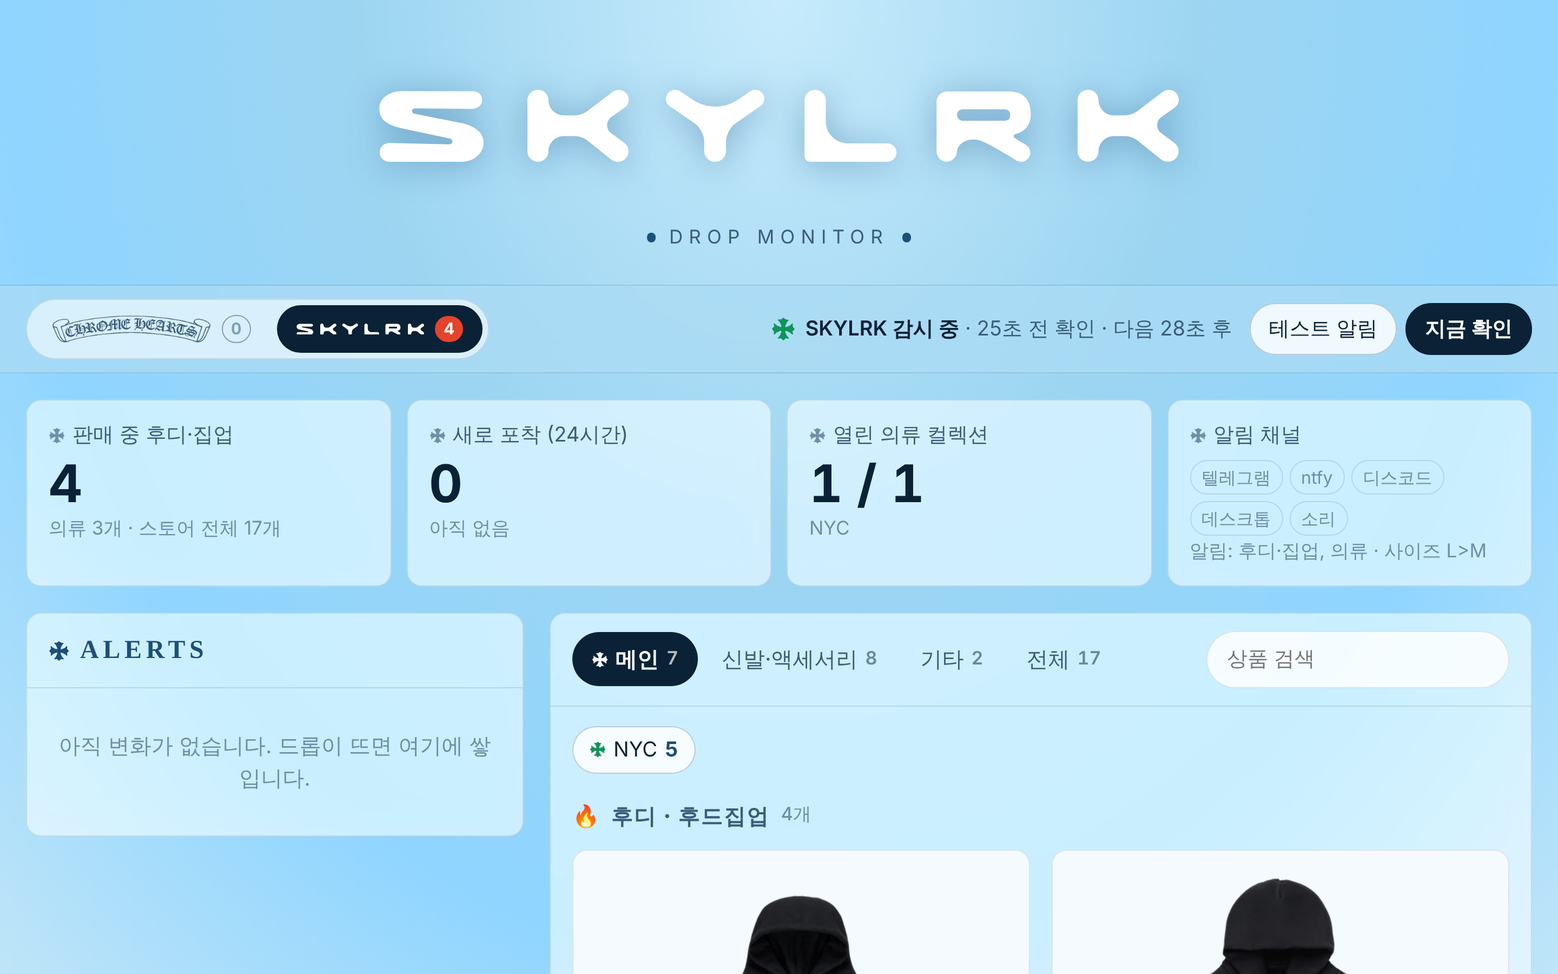
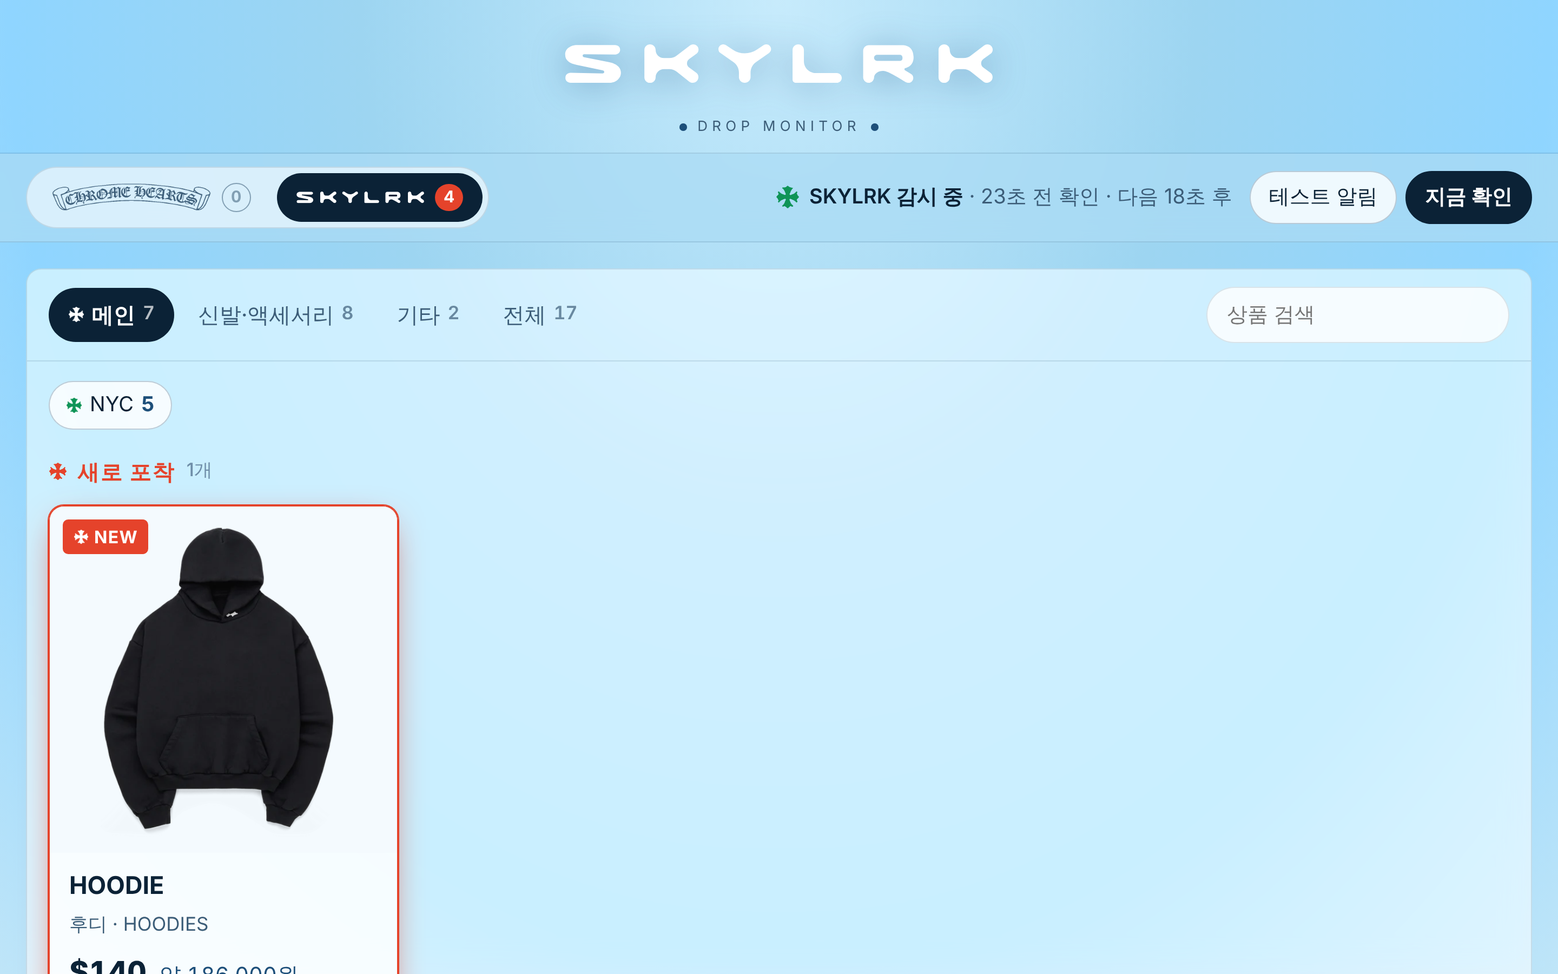
feat(drop-monitor): open on the products, stats and alerts below
The dashboard leads with the store's main tab (new, hoodies, apparel) under
a smaller logo, then the summary tiles, then the alerts. It always opens on
the main tab. On phones the status line and the test/check buttons sit just
above the alerts, leaving only the store switch in the top bar.

/healthz reports the page version so a deploy can be checked without the
dashboard password.

Claude-Session: https://claude.ai/code/session_01RWjNMcR5UQi4hTjZjTu5Z8

diff --git a/drop-monitor/chmonitor/dashboard.html b/drop-monitor/chmonitor/dashboard.html
@@ -45,16 +45,16 @@ html[data-store=skylrk] .bgfx.sky{opacity:1}
 .hero .chbg{position:absolute;inset:0;background:radial-gradient(120% 140% at 50% 0%,#1d1d21 0%,#0c0c0e 55%,#09090a 100%);transition:opacity .6s}
 .hero .chbg::before{content:"";position:absolute;inset:0;opacity:.05;background:var(--cross) 0 0/56px 56px}
 html[data-store=skylrk] .hero .chbg{opacity:0}
-.hero-in{position:relative;max-width:1760px;margin:0 auto;padding:40px 24px 30px;display:flex;flex-direction:column;align-items:center;gap:14px;text-align:center}
-.logos{position:relative;width:min(860px,90vw);aspect-ratio:744/132;color:var(--logo)}
+.hero-in{position:relative;max-width:1760px;margin:0 auto;padding:18px 24px 14px;display:flex;flex-direction:column;align-items:center;gap:8px;text-align:center}
+.logos{position:relative;width:min(460px,60vw);aspect-ratio:744/132;color:var(--logo)}
 .logos > *{position:absolute;inset:0;margin:auto;transition:opacity .45s ease,transform .55s cubic-bezier(.2,.8,.2,1),filter .45s}
 .logos .banner{filter:drop-shadow(0 2px 18px rgba(255,255,255,.08))}
 .logos .sky-logo{width:86%;height:fit-content;filter:drop-shadow(0 3px 16px rgba(20,70,120,.35))}
 html[data-store=chromehearts] .logos .sky-logo,
 html[data-store=skylrk] .logos .banner{opacity:0;transform:translateX(60px) scale(.96);filter:blur(6px)}
 html[data-store=skylrk] .logos .banner{transform:translateX(-60px) scale(.96)}
-.hero .sub{display:flex;align-items:center;gap:12px;color:var(--muted);font-size:17.5px;letter-spacing:.32em;text-transform:uppercase}
-.hero .sub .x{font-size:16px;color:var(--silver)}
+.hero .sub{display:flex;align-items:center;gap:10px;color:var(--muted);font-size:13px;letter-spacing:.32em;text-transform:uppercase}
+.hero .sub .x{font-size:12px;color:var(--silver)}
 html[data-store=skylrk] .hero .sub .x{-webkit-mask:none;mask:none;border-radius:50%;width:.55em;height:.55em}
 
 /* sticky bar */
@@ -99,15 +99,17 @@ main{max-width:1760px;margin:0 auto;padding:24px}
 .chan i{font-style:normal;font-size:16px;padding:3px 10px;border-radius:999px;border:1px solid var(--line);color:var(--faint)}
 .chan i.on{color:var(--text);border-color:var(--line-2);background:var(--panel-2);font-weight:600}
 
-.layout{display:grid;grid-template-columns:460px minmax(0,1fr);gap:24px;align-items:start}
+.store-panel{margin-bottom:24px}
+.ops{display:none;flex-direction:column;gap:10px;margin-bottom:16px}
 .ph{display:flex;align-items:center;justify-content:space-between;gap:12px;padding:16px 20px;border-bottom:1px solid var(--line);flex-wrap:wrap}
 .ph h2{display:flex;align-items:center;gap:10px;margin:0;font-family:var(--serif);font-size:24px;font-weight:700;letter-spacing:.16em;text-transform:uppercase;color:var(--silver)}
 .ph h2 .x{font-size:19px}
 .ph small{color:var(--faint);font-size:17.5px}
 
 /* feed */
-.feed{position:sticky;top:84px;max-height:calc(100vh - 104px);display:flex;flex-direction:column}
-.feed ol{list-style:none;margin:0;padding:6px;overflow:auto}
+.feed{display:flex;flex-direction:column}
+.feed ol{list-style:none;margin:0;padding:8px;display:grid;grid-template-columns:repeat(auto-fill,minmax(420px,1fr));gap:4px;max-height:640px;overflow:auto}
+.feed ol .empty{grid-column:1/-1}
 .ev{display:grid;grid-template-columns:88px minmax(0,1fr);gap:14px;padding:12px;border-radius:10px}
 .ev:hover{background:var(--panel-2)}
 .ev .thumb{width:88px;height:88px;border-radius:10px;background:var(--img) center/contain no-repeat;border:1px solid var(--line)}
@@ -176,17 +178,17 @@ main{max-width:1760px;margin:0 auto;padding:24px}
 .foot .x{font-size:15px}
 
 @media (max-width:1100px){
-  .layout{grid-template-columns:1fr}
-  .feed{position:static;max-height:none;order:2}
-  .feed ol{max-height:420px}
   .stats{grid-template-columns:repeat(2,minmax(0,1fr))}
 }
 @media (max-width:640px){
   body{font-size:18px}
-  .hero-in{padding:24px 16px 18px}
-  .hero .sub{letter-spacing:.22em;font-size:15px}
-  header{position:relative}
-  .bar{padding:10px 12px;gap:10px}
+  .hero-in{padding:12px 16px 10px;gap:6px}
+  .logos{width:72vw}
+  .hero .sub{letter-spacing:.22em;font-size:11px}
+  .bar{padding:8px 12px;gap:8px}
+  .ops{display:flex}
+  .ops .status{width:100%}
+  .feed ol{grid-template-columns:1fr;max-height:none}
   .switch{width:100%;margin-right:0}
   .switch button{flex:1;justify-content:center;padding:9px 10px}
   .switch .banner{height:20px}
@@ -240,8 +242,8 @@ main{max-width:1760px;margin:0 auto;padding:24px}
         <span class="sky-logo" aria-hidden="true"><svg viewBox="0 0 220 20" fill="none" xmlns="http://www.w3.org/2000/svg"> <g clip-path="url(#skyclip2)"> <path d="M103.554 -4.58308e-05C103.057 -4.58308e-05 102.572 0.147244 102.161 0.42379L98.7127 2.73535C95.0048 5.22426 90.1358 5.23326 86.4161 2.76541L82.8761 0.41778C82.4648 0.144239 81.9769 -0.00305176 81.4799 -0.00305176C79.0347 -0.00305176 78.0407 3.09606 80.0406 4.48178L86.6753 9.07485C88.4559 10.3073 89.5139 12.3152 89.5139 14.4555V16.8302C89.5139 18.4564 90.8525 19.773 92.5019 19.773C94.1514 19.773 95.4896 18.4533 95.4896 16.8302V14.4464C95.4896 12.3092 96.5448 10.3073 98.3132 9.07485L104.981 4.43371C106.957 3.05999 105.969 -0.00305176 103.551 -0.00305176L103.554 -4.58308e-05Z" fill="currentColor"/> <path d="M139.829 14.7351H129.081C125.679 14.7351 122.919 12.0177 122.919 8.6631V2.87367C122.919 1.28654 121.614 0 120.005 0C118.395 0 117.09 1.28654 117.09 2.87367V18.1708C117.09 19.0576 117.818 19.776 118.718 19.776H139.826C141.237 19.776 142.384 18.6458 142.384 17.254C142.384 15.8623 141.237 14.7321 139.826 14.7321L139.829 14.7351Z" fill="currentColor"/> <path d="M63.9665 7.48475L67.6191 4.88765C69.7715 3.35461 68.6712 0 66.0154 0C65.4117 0 64.8262 0.195385 64.3478 0.559101L57.4022 5.81648C56.3533 6.61003 55.0665 7.04289 53.7433 7.04289H50.9383C48.5875 7.04289 46.6789 5.1642 46.6789 2.84361C46.6789 1.27451 45.3861 0 43.7916 0C42.197 0 40.9043 1.27451 40.9043 2.84361V16.9324C40.9043 18.5045 42.197 19.776 43.7916 19.776C45.3861 19.776 46.6789 18.5015 46.6789 16.9324C46.6789 14.6148 48.5847 12.7331 50.9383 12.7331H53.7556C55.1305 12.7331 56.4662 13.199 57.5334 14.0527L63.9057 19.1327C64.4268 19.5505 65.0795 19.776 65.7531 19.776C68.5736 19.776 69.7747 16.238 67.5184 14.5667L63.9207 11.9005C62.4237 10.7913 62.4451 8.56689 63.9665 7.48475Z" fill="currentColor"/> <path d="M218.756 14.5667L215.158 11.9005C213.661 10.7913 213.682 8.56689 215.204 7.48475L218.856 4.88765C221.009 3.35461 219.912 0 217.253 0C216.649 0 216.064 0.195385 215.585 0.559101L208.64 5.81648C207.591 6.61003 206.304 7.04289 204.981 7.04289H202.176C199.825 7.04289 197.917 5.1642 197.917 2.84361C197.917 1.27451 196.624 0 195.029 0C193.434 0 192.142 1.27451 192.142 2.84361V16.9324C192.142 18.5045 193.434 19.776 195.029 19.776C196.624 19.776 197.917 18.5015 197.917 16.9324C197.917 14.6148 199.822 12.7331 202.176 12.7331H204.993C206.368 12.7331 207.7 13.199 208.771 14.0527L215.143 19.1327C215.664 19.5505 216.317 19.776 216.99 19.776C219.811 19.776 221.012 16.238 218.756 14.5667Z" fill="currentColor"/> <path d="M175.098 12.162C175.988 11.9425 176.61 11.6299 177.177 11.2452C178.479 10.3584 179.427 8.56088 179.302 6.32146C179.095 2.66324 177.351 0.447876 173.137 0.447876H156.332C154.704 0.447876 153.38 1.74944 153.38 3.35461V16.9234C153.38 18.4143 154.542 19.7038 156.054 19.77C157.661 19.8421 158.902 18.4804 158.987 17.0105C159.109 14.4315 162.445 13.1509 164.918 13.8032C167.594 14.5096 175.311 19.4183 175.311 19.4183C175.708 19.6527 176.159 19.779 176.622 19.779C179.19 19.779 180.126 16.4424 177.921 15.1438L174.952 13.3253C174.442 13.0517 174.537 12.3003 175.101 12.162H175.098ZM171.994 8.50077H160.597C159.71 8.50077 158.987 7.79136 158.987 6.91363C158.987 6.03591 159.692 5.36557 160.557 5.36557H171.964C173.107 5.36557 173.61 5.8886 173.61 6.93167C173.61 7.9747 173.165 8.49774 171.991 8.49774L171.994 8.50077Z" fill="currentColor"/> <path d="M22.5902 9.09861L9.92493 6.57664C9.52249 6.50451 9.16574 6.25199 9.16574 5.81613C9.16574 5.81613 9.16574 5.08268 10.0378 5.08268L25.5538 5.24802C27.1453 5.24802 28.432 4.28313 28.432 2.83727C28.432 1.39141 27.4258 0.378418 25.7184 0.378418H6.14425C3.35448 0.378418 0.171387 2.0407 0.171387 5.18489C0.171387 8.32909 2.53126 9.74489 6.20217 10.5445L19.4468 13.346C20.084 13.5083 20.2639 13.854 20.2639 14.2057C20.2639 14.7197 19.834 14.9872 19.3157 14.9752L2.92458 14.6085C1.53121 14.6085 0.244561 15.5764 0.296393 17.2777C0.296393 18.7597 1.52816 19.7727 3.03434 19.7727H22.7884C26.2093 19.7727 28.8436 17.4341 28.8436 14.5063C28.8436 11.3591 25.6971 9.67875 22.5963 9.10161L22.5902 9.09861Z" fill="currentColor"/> </g> <defs> <clipPath id="skyclip2"> <rect width="220" height="20" fill="white"/> </clipPath> </defs> </svg></span><span class="sr" style="position:absolute;width:1px;height:1px;overflow:hidden;clip:rect(0 0 0 0)">SKYLRK</span><b class="zero" data-count="skylrk">0</b>
       </button>
     </div>
-    <div class="status" aria-live="polite"><span class="x" id="dot"></span><span id="statusText">연결 중…</span></div>
-    <div class="actions">
+    <div class="status" id="status" aria-live="polite"><span class="x" id="dot"></span><span id="statusText">연결 중…</span></div>
+    <div class="actions" id="actions">
       <button class="btn" id="testBtn" type="button">테스트 알림</button>
       <button class="btn primary" id="checkBtn" type="button">지금 확인</button>
     </div>
@@ -251,6 +253,14 @@ main{max-width:1760px;margin:0 auto;padding:24px}
 <main id="main">
   <div class="err" id="err"></div>
 
+  <section class="card-bg store-panel" aria-label="스토어">
+    <div class="ph">
+      <div class="tabs" role="tablist" id="tabs"></div>
+      <input class="search" id="q" type="search" placeholder="상품 검색" aria-label="상품 검색">
+    </div>
+    <div id="store"></div>
+  </section>
+
   <section class="stats" aria-label="요약">
     <div class="stat card-bg"><div class="k"><span class="x"></span>판매 중 후디·집업</div><div class="v" id="sHood">–</div><div class="s" id="sHoodSub">&nbsp;</div></div>
     <div class="stat card-bg"><div class="k"><span class="x"></span>새로 포착 (24시간)</div><div class="v" id="sFresh">–</div><div class="s" id="sFreshSub">&nbsp;</div></div>
@@ -258,26 +268,18 @@ main{max-width:1760px;margin:0 auto;padding:24px}
     <div class="stat card-bg"><div class="k"><span class="x"></span>알림 채널</div><div class="chan" id="sChan"></div><div class="s" id="sWatch">&nbsp;</div></div>
   </section>
 
-  <div class="layout">
-    <section class="card-bg feed" aria-label="알림 기록">
-      <div class="ph"><h2><span class="x"></span>Alerts</h2><small id="feedCount"></small></div>
-      <ol id="feed"></ol>
-    </section>
+  <div class="ops" id="ops"></div>
 
-    <section class="card-bg" aria-label="스토어">
-      <div class="ph">
-        <div class="tabs" role="tablist" id="tabs"></div>
-        <input class="search" id="q" type="search" placeholder="상품 검색" aria-label="상품 검색">
-      </div>
-      <div id="store"></div>
-    </section>
-  </div>
+  <section class="card-bg feed" aria-label="알림 기록">
+    <div class="ph"><h2><span class="x"></span>Alerts</h2><small id="feedCount"></small></div>
+    <ol id="feed"></ol>
+  </section>
 
   <div class="foot" id="foot"></div>
 </main>
 
 <script>
-const VERSION = 4;
+const VERSION = 5;
 const $ = id => document.getElementById(id);
 const KIND = {new_product:"신상품", relisted:"재입고", restock:"재입고", category_open:"오픈", price_change:"가격", error:"오류", test:"테스트"};
 const TABS = [["main","메인"],["accessory","신발·액세서리"],["other","기타"],["all","전체"]];
@@ -286,7 +288,6 @@ const NAMES = {chromehearts: "Chrome Hearts", skylrk: "SKYLRK"};
 let store = "chromehearts", tab = "main", S = null, lastEvents = {}, cache = {};
 try {
   store = (location.hash.slice(1) in NAMES && location.hash.slice(1)) || localStorage.getItem("chm.store") || store;
-  tab = localStorage.getItem("chm.tab") || tab;
 } catch (e) {}
 if (!TABS.some(t => t[0] === tab)) tab = "main";
 
@@ -451,7 +452,7 @@ function renderStore() {
   $("tabs").replaceChildren(...TABS.map(([id, label]) => {
     const b = el("button", {type: "button", role: "tab", "aria-selected": String(tab === id)},
       id === "main" ? X() : null, label, el("b", {}, count(id)));
-    b.onclick = () => { tab = id; try { localStorage.setItem("chm.tab", tab); } catch (e) {} renderStore(); };
+    b.onclick = () => { tab = id; renderStore(); };
     return b;
   }));
 
@@ -535,6 +536,14 @@ document.addEventListener("keydown", e => {
   if (e.key === "1") switchStore("chromehearts");
   if (e.key === "2") switchStore("skylrk");
 });
+// phones: status line and buttons sit just above the alerts instead of in the top bar
+const phone = matchMedia("(max-width:640px)");
+function placeOps() {
+  const into = phone.matches ? $("ops") : document.querySelector("header .bar");
+  into.append($("status"), $("actions"));
+}
+phone.addEventListener ? phone.addEventListener("change", placeOps) : phone.addListener(placeOps);
+placeOps();
 switchStore(store, false);
 // prefetch the other store so the first switch is instant
 setTimeout(() => Object.keys(NAMES).filter(s => s !== store).forEach(s => fetch("/api/state?store=" + s).then(r => r.json()).then(d => { cache[s] = d; }).catch(() => {})), 1500);

diff --git a/drop-monitor/tools/dashboard.tpl.html b/drop-monitor/tools/dashboard.tpl.html
@@ -45,16 +45,16 @@ html[data-store=skylrk] .bgfx.sky{opacity:1}
 .hero .chbg{position:absolute;inset:0;background:radial-gradient(120% 140% at 50% 0%,#1d1d21 0%,#0c0c0e 55%,#09090a 100%);transition:opacity .6s}
 .hero .chbg::before{content:"";position:absolute;inset:0;opacity:.05;background:var(--cross) 0 0/56px 56px}
 html[data-store=skylrk] .hero .chbg{opacity:0}
-.hero-in{position:relative;max-width:1760px;margin:0 auto;padding:40px 24px 30px;display:flex;flex-direction:column;align-items:center;gap:14px;text-align:center}
-.logos{position:relative;width:min(860px,90vw);aspect-ratio:744/132;color:var(--logo)}
+.hero-in{position:relative;max-width:1760px;margin:0 auto;padding:18px 24px 14px;display:flex;flex-direction:column;align-items:center;gap:8px;text-align:center}
+.logos{position:relative;width:min(460px,60vw);aspect-ratio:744/132;color:var(--logo)}
 .logos > *{position:absolute;inset:0;margin:auto;transition:opacity .45s ease,transform .55s cubic-bezier(.2,.8,.2,1),filter .45s}
 .logos .banner{filter:drop-shadow(0 2px 18px rgba(255,255,255,.08))}
 .logos .sky-logo{width:86%;height:fit-content;filter:drop-shadow(0 3px 16px rgba(20,70,120,.35))}
 html[data-store=chromehearts] .logos .sky-logo,
 html[data-store=skylrk] .logos .banner{opacity:0;transform:translateX(60px) scale(.96);filter:blur(6px)}
 html[data-store=skylrk] .logos .banner{transform:translateX(-60px) scale(.96)}
-.hero .sub{display:flex;align-items:center;gap:12px;color:var(--muted);font-size:17.5px;letter-spacing:.32em;text-transform:uppercase}
-.hero .sub .x{font-size:16px;color:var(--silver)}
+.hero .sub{display:flex;align-items:center;gap:10px;color:var(--muted);font-size:13px;letter-spacing:.32em;text-transform:uppercase}
+.hero .sub .x{font-size:12px;color:var(--silver)}
 html[data-store=skylrk] .hero .sub .x{-webkit-mask:none;mask:none;border-radius:50%;width:.55em;height:.55em}
 
 /* sticky bar */
@@ -99,15 +99,17 @@ main{max-width:1760px;margin:0 auto;padding:24px}
 .chan i{font-style:normal;font-size:16px;padding:3px 10px;border-radius:999px;border:1px solid var(--line);color:var(--faint)}
 .chan i.on{color:var(--text);border-color:var(--line-2);background:var(--panel-2);font-weight:600}
 
-.layout{display:grid;grid-template-columns:460px minmax(0,1fr);gap:24px;align-items:start}
+.store-panel{margin-bottom:24px}
+.ops{display:none;flex-direction:column;gap:10px;margin-bottom:16px}
 .ph{display:flex;align-items:center;justify-content:space-between;gap:12px;padding:16px 20px;border-bottom:1px solid var(--line);flex-wrap:wrap}
 .ph h2{display:flex;align-items:center;gap:10px;margin:0;font-family:var(--serif);font-size:24px;font-weight:700;letter-spacing:.16em;text-transform:uppercase;color:var(--silver)}
 .ph h2 .x{font-size:19px}
 .ph small{color:var(--faint);font-size:17.5px}
 
 /* feed */
-.feed{position:sticky;top:84px;max-height:calc(100vh - 104px);display:flex;flex-direction:column}
-.feed ol{list-style:none;margin:0;padding:6px;overflow:auto}
+.feed{display:flex;flex-direction:column}
+.feed ol{list-style:none;margin:0;padding:8px;display:grid;grid-template-columns:repeat(auto-fill,minmax(420px,1fr));gap:4px;max-height:640px;overflow:auto}
+.feed ol .empty{grid-column:1/-1}
 .ev{display:grid;grid-template-columns:88px minmax(0,1fr);gap:14px;padding:12px;border-radius:10px}
 .ev:hover{background:var(--panel-2)}
 .ev .thumb{width:88px;height:88px;border-radius:10px;background:var(--img) center/contain no-repeat;border:1px solid var(--line)}
@@ -176,17 +178,17 @@ main{max-width:1760px;margin:0 auto;padding:24px}
 .foot .x{font-size:15px}
 
 @media (max-width:1100px){
-  .layout{grid-template-columns:1fr}
-  .feed{position:static;max-height:none;order:2}
-  .feed ol{max-height:420px}
   .stats{grid-template-columns:repeat(2,minmax(0,1fr))}
 }
 @media (max-width:640px){
   body{font-size:18px}
-  .hero-in{padding:24px 16px 18px}
-  .hero .sub{letter-spacing:.22em;font-size:15px}
-  header{position:relative}
-  .bar{padding:10px 12px;gap:10px}
+  .hero-in{padding:12px 16px 10px;gap:6px}
+  .logos{width:72vw}
+  .hero .sub{letter-spacing:.22em;font-size:11px}
+  .bar{padding:8px 12px;gap:8px}
+  .ops{display:flex}
+  .ops .status{width:100%}
+  .feed ol{grid-template-columns:1fr;max-height:none}
   .switch{width:100%;margin-right:0}
   .switch button{flex:1;justify-content:center;padding:9px 10px}
   .switch .banner{height:20px}
@@ -240,8 +242,8 @@ main{max-width:1760px;margin:0 auto;padding:24px}
         <span class="sky-logo" aria-hidden="true">__SKY_SVG__</span><span class="sr" style="position:absolute;width:1px;height:1px;overflow:hidden;clip:rect(0 0 0 0)">SKYLRK</span><b class="zero" data-count="skylrk">0</b>
       </button>
     </div>
-    <div class="status" aria-live="polite"><span class="x" id="dot"></span><span id="statusText">연결 중…</span></div>
-    <div class="actions">
+    <div class="status" id="status" aria-live="polite"><span class="x" id="dot"></span><span id="statusText">연결 중…</span></div>
+    <div class="actions" id="actions">
       <button class="btn" id="testBtn" type="button">테스트 알림</button>
       <button class="btn primary" id="checkBtn" type="button">지금 확인</button>
     </div>
@@ -251,6 +253,14 @@ main{max-width:1760px;margin:0 auto;padding:24px}
 <main id="main">
   <div class="err" id="err"></div>
 
+  <section class="card-bg store-panel" aria-label="스토어">
+    <div class="ph">
+      <div class="tabs" role="tablist" id="tabs"></div>
+      <input class="search" id="q" type="search" placeholder="상품 검색" aria-label="상품 검색">
+    </div>
+    <div id="store"></div>
+  </section>
+
   <section class="stats" aria-label="요약">
     <div class="stat card-bg"><div class="k"><span class="x"></span>판매 중 후디·집업</div><div class="v" id="sHood">–</div><div class="s" id="sHoodSub">&nbsp;</div></div>
     <div class="stat card-bg"><div class="k"><span class="x"></span>새로 포착 (24시간)</div><div class="v" id="sFresh">–</div><div class="s" id="sFreshSub">&nbsp;</div></div>
@@ -258,26 +268,18 @@ main{max-width:1760px;margin:0 auto;padding:24px}
     <div class="stat card-bg"><div class="k"><span class="x"></span>알림 채널</div><div class="chan" id="sChan"></div><div class="s" id="sWatch">&nbsp;</div></div>
   </section>
 
-  <div class="layout">
-    <section class="card-bg feed" aria-label="알림 기록">
-      <div class="ph"><h2><span class="x"></span>Alerts</h2><small id="feedCount"></small></div>
-      <ol id="feed"></ol>
-    </section>
+  <div class="ops" id="ops"></div>
 
-    <section class="card-bg" aria-label="스토어">
-      <div class="ph">
-        <div class="tabs" role="tablist" id="tabs"></div>
-        <input class="search" id="q" type="search" placeholder="상품 검색" aria-label="상품 검색">
-      </div>
-      <div id="store"></div>
-    </section>
-  </div>
+  <section class="card-bg feed" aria-label="알림 기록">
+    <div class="ph"><h2><span class="x"></span>Alerts</h2><small id="feedCount"></small></div>
+    <ol id="feed"></ol>
+  </section>
 
   <div class="foot" id="foot"></div>
 </main>
 
 <script>
-const VERSION = 4;
+const VERSION = 5;
 const $ = id => document.getElementById(id);
 const KIND = {new_product:"신상품", relisted:"재입고", restock:"재입고", category_open:"오픈", price_change:"가격", error:"오류", test:"테스트"};
 const TABS = [["main","메인"],["accessory","신발·액세서리"],["other","기타"],["all","전체"]];
@@ -286,7 +288,6 @@ const NAMES = {chromehearts: "Chrome Hearts", skylrk: "SKYLRK"};
 let store = "chromehearts", tab = "main", S = null, lastEvents = {}, cache = {};
 try {
   store = (location.hash.slice(1) in NAMES && location.hash.slice(1)) || localStorage.getItem("chm.store") || store;
-  tab = localStorage.getItem("chm.tab") || tab;
 } catch (e) {}
 if (!TABS.some(t => t[0] === tab)) tab = "main";
 
@@ -451,7 +452,7 @@ function renderStore() {
   $("tabs").replaceChildren(...TABS.map(([id, label]) => {
     const b = el("button", {type: "button", role: "tab", "aria-selected": String(tab === id)},
       id === "main" ? X() : null, label, el("b", {}, count(id)));
-    b.onclick = () => { tab = id; try { localStorage.setItem("chm.tab", tab); } catch (e) {} renderStore(); };
+    b.onclick = () => { tab = id; renderStore(); };
     return b;
   }));
 
@@ -535,6 +536,14 @@ document.addEventListener("keydown", e => {
   if (e.key === "1") switchStore("chromehearts");
   if (e.key === "2") switchStore("skylrk");
 });
+// phones: status line and buttons sit just above the alerts instead of in the top bar
+const phone = matchMedia("(max-width:640px)");
+function placeOps() {
+  const into = phone.matches ? $("ops") : document.querySelector("header .bar");
+  into.append($("status"), $("actions"));
+}
+phone.addEventListener ? phone.addEventListener("change", placeOps) : phone.addListener(placeOps);
+placeOps();
 switchStore(store, false);
 // prefetch the other store so the first switch is instant
 setTimeout(() => Object.keys(NAMES).filter(s => s !== store).forEach(s => fetch("/api/state?store=" + s).then(r => r.json()).then(d => { cache[s] = d; }).catch(() => {})), 1500);

diff --git a/drop-monitor/chmonitor/dashboard.py b/drop-monitor/chmonitor/dashboard.py
@@ -32,7 +32,7 @@ from .site import Product
 log = logging.getLogger("chmonitor")
 PAGE = Path(__file__).with_name("dashboard.html")
 ACTION_HEADER = "X-CH-Dashboard"
-VERSION = 4  # the page warns when an older server is still running
+VERSION = 5  # the page warns when an older server is still running
 
 
 def config_summary(cfg: dict) -> dict:
@@ -142,7 +142,7 @@ def make_handler(monitors: dict[str, Monitor], public: bool = False, password: s
         def do_GET(self):
             path = urllib.parse.urlparse(self.path).path
             if path == "/healthz":  # for the hosting platform's health check
-                return self._send(200, b"ok", "text/plain")
+                return self._send(200, f"ok v{VERSION}".encode(), "text/plain")
             if not self._guard():
                 return
             if path in ("/", "/index.html"):

diff --git a/drop-monitor/tests/test_stores.py b/drop-monitor/tests/test_stores.py
@@ -144,7 +144,7 @@ class ServerModeTests(unittest.TestCase):
         self.assertEqual(self.get("/")[0], 401)
         self.assertEqual(self.get("/api/state", "wrong-password")[0], 401)
         self.assertEqual(self.get("/", "hunter2hunter2", host="monitor.up.railway.app")[0], 200)
-        self.assertEqual(self.get("/healthz")[0], 200)
+        self.assertEqual(self.get("/healthz"), (200, "ok v5"))
 
     def test_store_switch(self):
         code, body = self.get("/api/state?store=skylrk", "hunter2hunter2")
